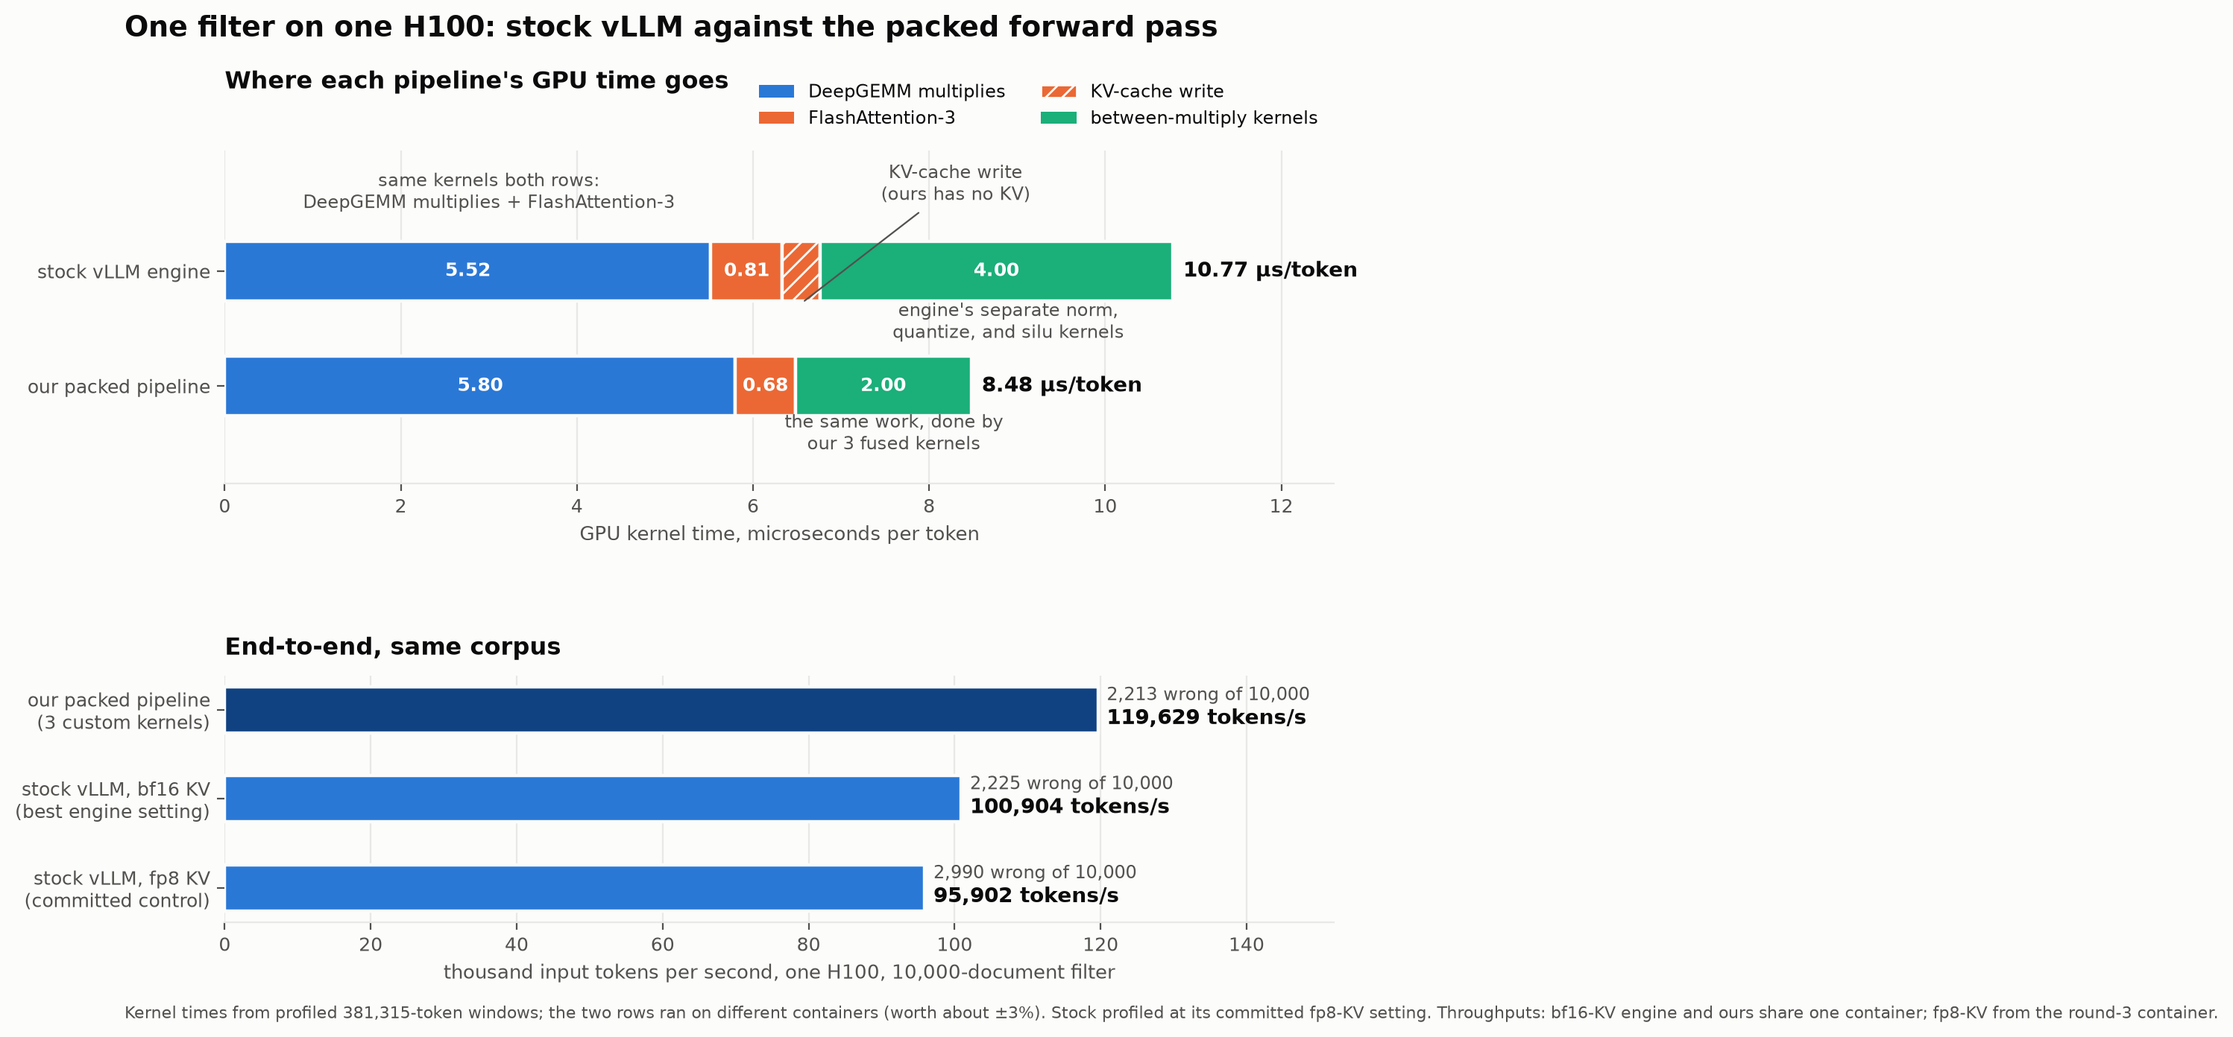
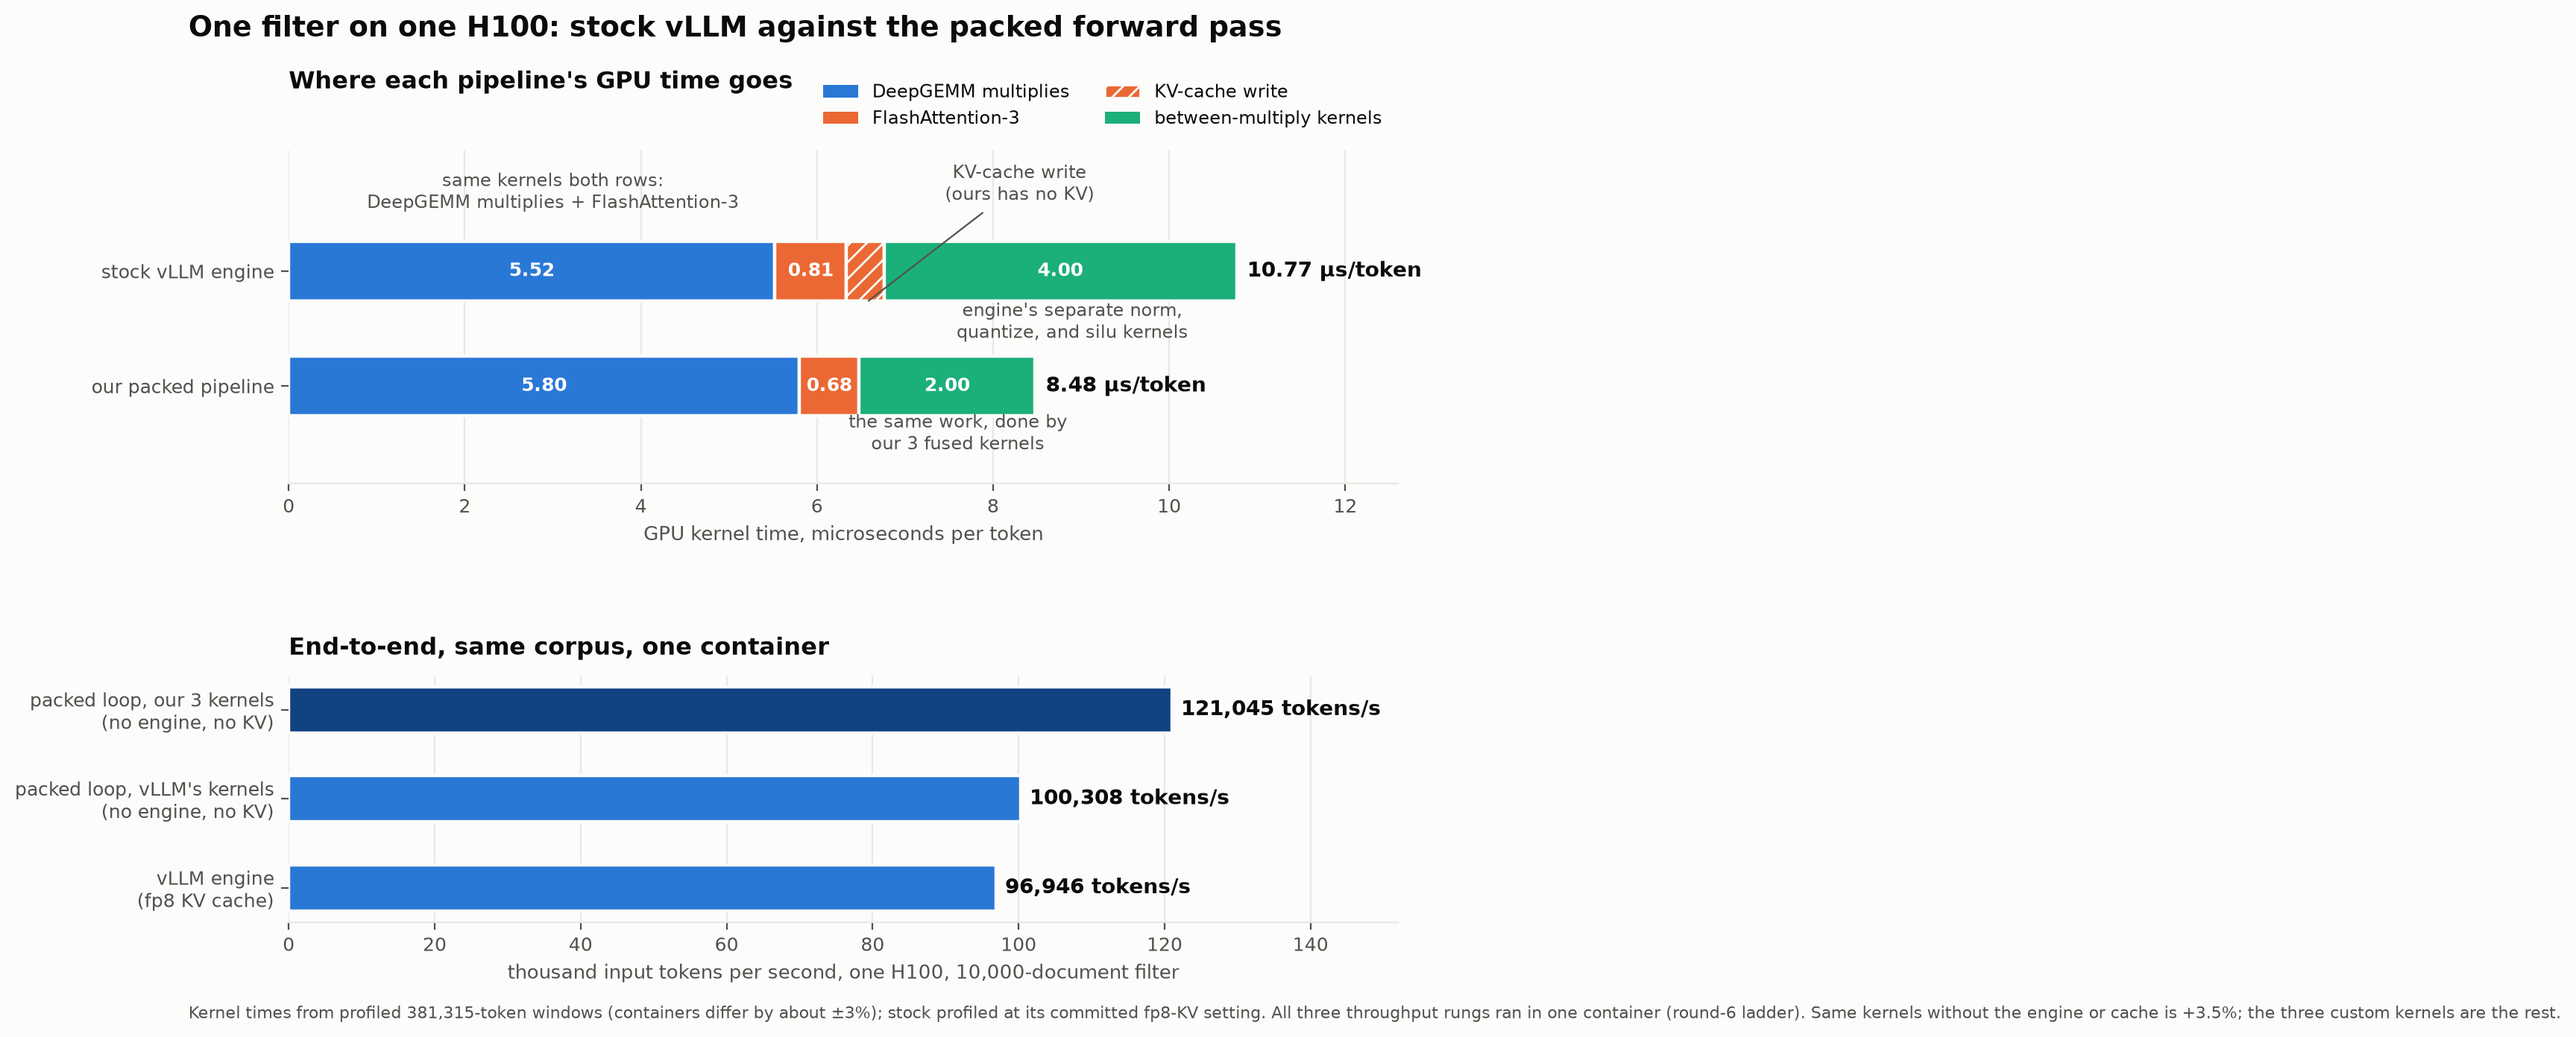
Figure: final three-rung ladder, speed only, one container
Panel B now shows the presentation ladder: vLLM engine with fp8 KV,
the packed loop running vLLM's kernels with no engine and no KV, and
the packed loop with our three kernels - all three rungs from the
round-6 container. The stock-parts rung and the accuracy annotations
move to the banked results.

Claude-Session: https://claude.ai/code/session_01KxK4LXv1BghRMuTLvqRvpK

diff --git a/results/plots/stock_vs_packed_kernels.py b/results/plots/stock_vs_packed_kernels.py
@@ -93,17 +93,15 @@ ax.set_title("Where each pipeline's GPU time goes",
 # ---------------- Panel B: end-to-end throughput ----------------
 bx.set_facecolor(SURFACE)
 configs = [
-    ("our packed pipeline\n(3 custom kernels)", 119629, 2213, BLUE_DARK),
-    ("stock vLLM, bf16 KV\n(best engine setting)", 100904, 2225, BLUE),
-    ("stock vLLM, fp8 KV\n(committed control)", 95902, 2990, BLUE),
+    ("packed loop, our 3 kernels\n(no engine, no KV)", 121045, BLUE_DARK),
+    ("packed loop, vLLM's kernels\n(no engine, no KV)", 100308, BLUE),
+    ("vLLM engine\n(fp8 KV cache)", 96946, BLUE),
 ]
-for y, (label, rate, wrong, color) in enumerate(configs):
+for y, (label, rate, color) in enumerate(configs):
     bx.barh(y, rate / 1000, height=0.52, color=color,
             edgecolor=SURFACE, linewidth=1.6)
-    bx.text(rate / 1000 + 1.2, y + 0.10, f"{rate:,} tokens/s",
+    bx.text(rate / 1000 + 1.2, y, f"{rate:,} tokens/s",
             va="center", fontsize=10, color=INK, fontweight="bold")
-    bx.text(rate / 1000 + 1.2, y - 0.16, f"{wrong:,} wrong of 10,000",
-            va="center", fontsize=8.6, color=INK2)
 bx.set_yticks(range(len(configs)))
 bx.set_yticklabels([c[0] for c in configs], fontsize=9.5, color=INK)
 bx.set_xlim(0, 152)
@@ -116,17 +114,19 @@ bx.spines["bottom"].set_color(GRID)
 bx.tick_params(colors=INK2, labelsize=9)
 bx.set_xlabel("thousand input tokens per second, one H100, "
               "10,000-document filter", fontsize=9.5, color=INK2)
-bx.set_title("End-to-end, same corpus", fontsize=11.5, color=INK,
+bx.set_title("End-to-end, same corpus, one container",
+             fontsize=11.5, color=INK,
              loc="left", pad=10, fontweight="bold")
 
 fig.suptitle("One filter on one H100: stock vLLM against the packed "
              "forward pass", fontsize=13.5, color=INK, x=0.055,
              y=0.97, ha="left", fontweight="bold")
 fig.text(0.055, 0.008,
-         "Kernel times from profiled 381,315-token windows; the two rows "
-         "ran on different containers (worth about ±3%). Stock profiled at "
-         "its committed fp8-KV setting. Throughputs: bf16-KV engine and "
-         "ours share one container; fp8-KV from the round-3 container.",
+         "Kernel times from profiled 381,315-token windows (containers "
+         "differ by about ±3%); stock profiled at its committed fp8-KV "
+         "setting. All three throughput rungs ran in one container "
+         "(round-6 ladder). Same kernels without the engine or cache is "
+         "+3.5%; the three custom kernels are the rest.",
          fontsize=7.8, color=INK2)
 
 fig.savefig("/home/user/quail-exploration/results/plots/"
